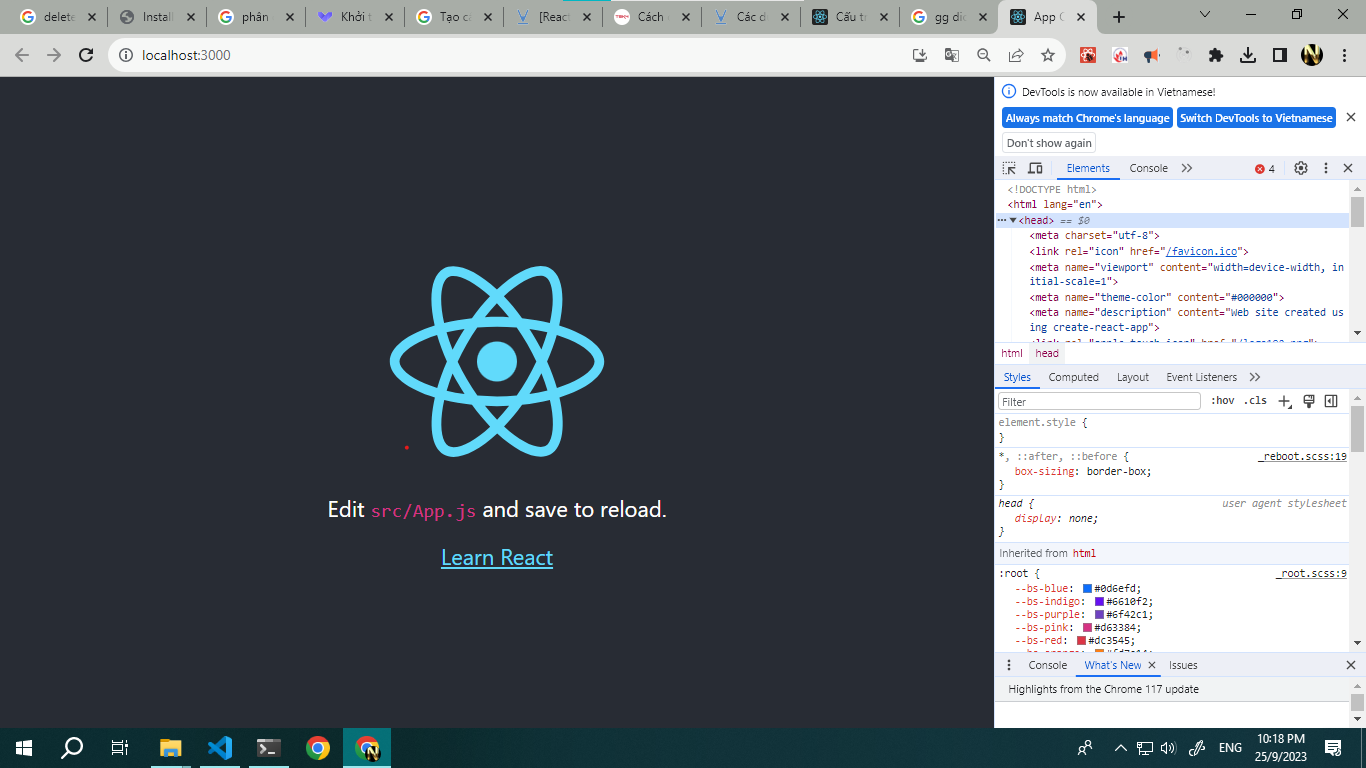
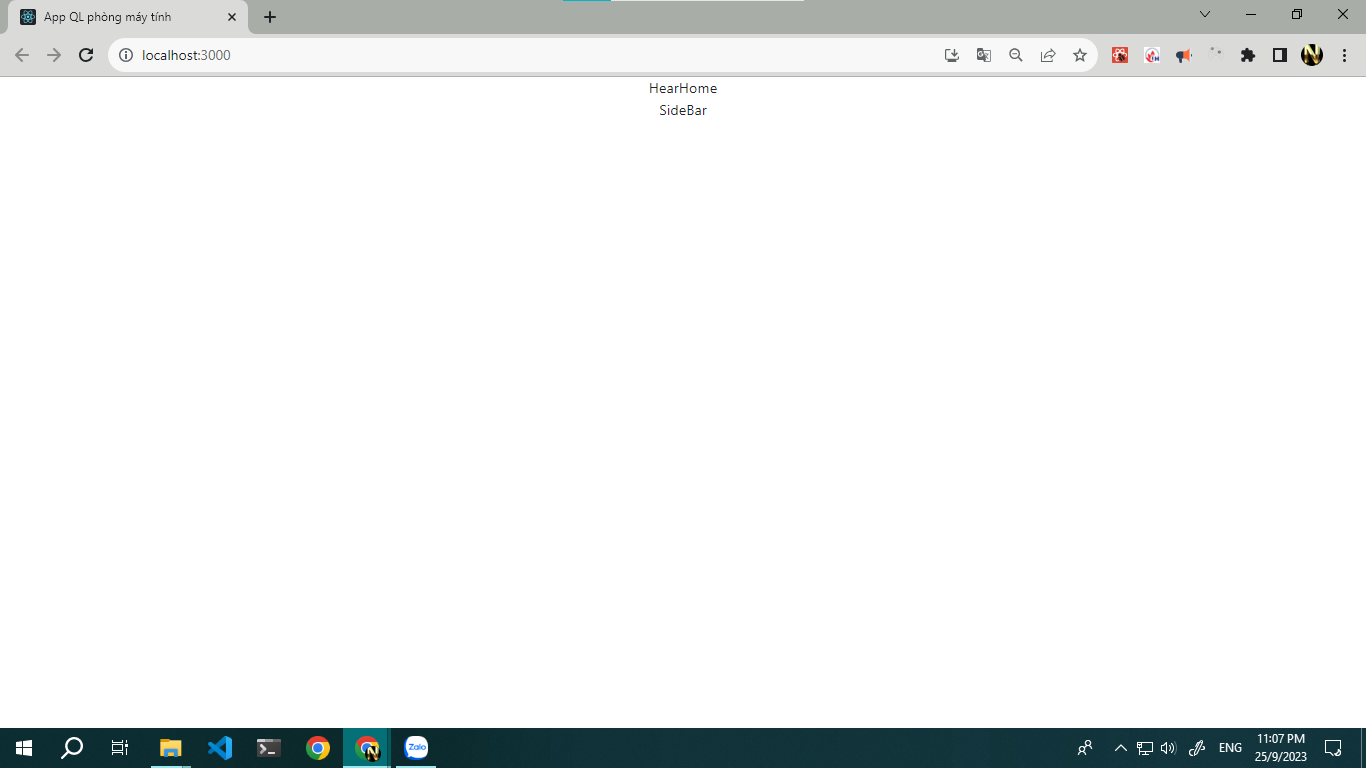
add folder co bản

diff --git a/src/App.js b/src/App.js
@@ -1,24 +1,18 @@
 import logo from './logo.svg';
 import './App.css';
 import { Outlet } from 'react-router-dom';
+import HearHome from './components/HearHome';
+import SideBar from './components/SideBar';
 
 function App() {
   return (
     <div className="App">
-      <header className="App-header">
-        <img src={logo} className="App-logo" alt="logo" />
-        <p>
-          Edit <code>src/App.js</code> and save to reload.
-        </p>
-        <a
-          className="App-link"
-          href="https://reactjs.org"
-          target="_blank"
-          rel="noopener noreferrer"
-        >
-          Learn React
-        </a>
+      <header >
+          <HearHome />
       </header>
+      <main>
+        <SideBar />
+      </main>
       <Outlet />
     </div>
   );

diff --git a/src/redux/reducers/productReducer.jsx b/src/redux/reducers/productReducer.jsx
@@ -1,0 +1,23 @@
+//rxreducer
+// const initialState = {
+//     arrProduct: [
+//         {id:1, name:"Prodict 1"},
+//         {id:2, name:"Prodict 2"},
+//         {id:3, name:"Prodict 3"},
+//         {id:4, name:"Prodict 4"}
+//     ]
+// }
+
+// export default (state = initialState, { type, payload }) => {
+//   switch (type) {
+
+// //   case typeName:
+// //     return { ...state, ...payload }
+
+//   default:
+//     return state
+//   }
+// }
+
+
+

diff --git a/src/redux/ConfigRedux.jsx b/src/redux/ConfigRedux.jsx
@@ -1,0 +1,13 @@
+// import productReducer from "./reducers/productReducer";
+// import { createStore, combineReducers } from "redux";
+
+// const rootReducer = combineReducers({
+//     // Nơi chứa các state của ứng dụng
+
+//     productReducer: productReducer,
+// })
+
+// export const store  = createStore(
+//     rootReducer,
+//     window.__REDUX_DEVTOOLS_EXTENSION__ && window.__REDUX_DEVTOOLS_EXTENSION__()
+// );

diff --git a/src/components/SideBar.jsx b/src/components/SideBar.jsx
@@ -1,0 +1,17 @@
+//rafcp
+import React from 'react'
+import PropTypes from 'prop-types'
+
+const SideBar = props => {
+  return (
+    <div>
+      SideBar
+    </div>
+  )
+}
+
+SideBar.propTypes = {
+
+}
+
+export default SideBar

diff --git a/src/components/HearHome.jsx b/src/components/HearHome.jsx
@@ -1,0 +1,20 @@
+//rfec
+import React from 'react'
+
+function HearHome() {
+  return (
+    <div>
+      HearHome
+    </div>
+  )
+}
+
+export default HearHome
+
+
+
+
+
+
+
+

diff --git a/src/assets/scss/style.scss b/src/assets/scss/style.scss
@@ -1,0 +1,1 @@
+// file css
